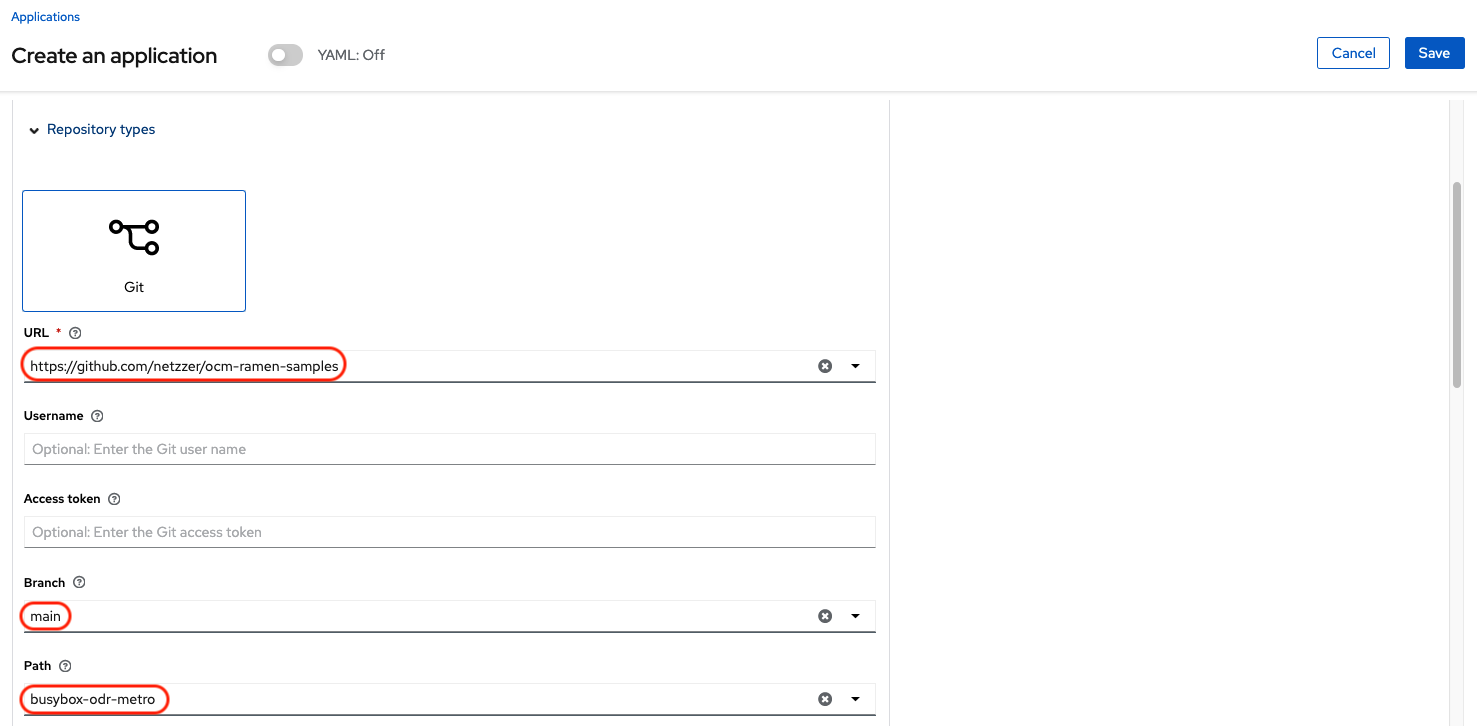
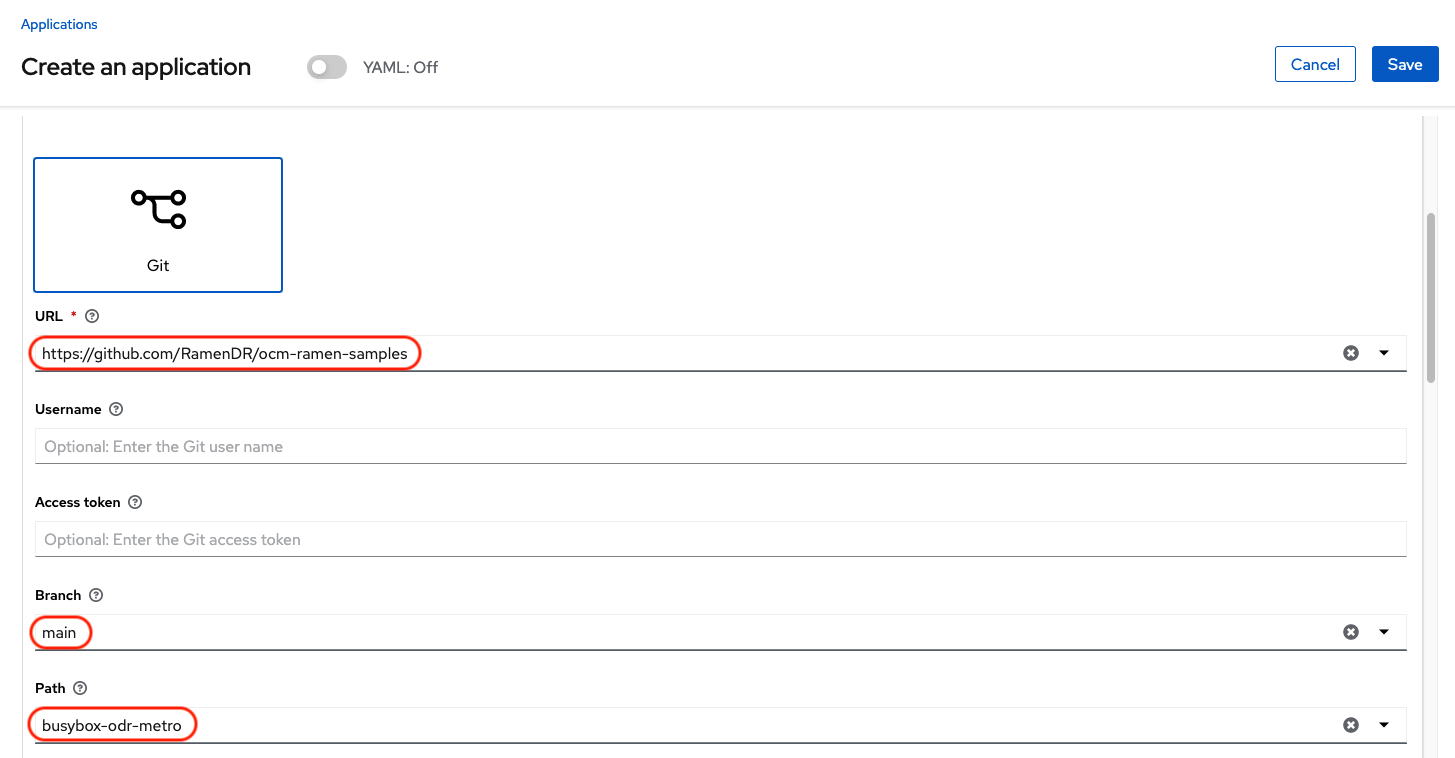
[CI] Publish Documentation for 3ba70a0201494a7e1a1d82daf5225d3933c6d2ed - 3ba70a0201494a7e1a1d82daf5225d3933c6d2ed 🚀

diff --git a/training/ocs4/odf4-metro-ramen.html b/training/ocs4/odf4-metro-ramen.html
@@ -213,8 +213,18 @@
 <li><a href="#_deleting_the_sample_application">12.5. Deleting the Sample Application</a></li>
 </ul>
 </li>
-<li><a href="#_application_failover_between_managed_clusters">13. Application Failover between managed clusters</a></li>
-<li><a href="#_application_failback_between_managed_clusters">14. Application Failback between managed clusters</a></li>
+<li><a href="#_application_failover_between_managed_clusters">13. Application Failover between managed clusters</a>
+<ul class="sectlevel2">
+<li><a href="#_create_networkfence_resource_and_enable_fencing">13.1. Create NetworkFence resource and Enable Fencing</a></li>
+<li><a href="#_modify_drplacementcontrol_to_failover">13.2. Modify DRPlacementControl to failover</a></li>
+</ul>
+</li>
+<li><a href="#_application_failback_between_managed_clusters">14. Application Failback between managed clusters</a>
+<ul class="sectlevel2">
+<li><a href="#_remove_networkfence_resource_and_disable_fencing">14.1. Remove NetworkFence resource and Disable Fencing</a></li>
+<li><a href="#_modify_drplacementcontrol_to_failback">14.2. Modify DRPlacementControl to failback</a></li>
+</ul>
+</li>
 </ul>
 </div>
 <div class="sect1">
@@ -623,31 +633,17 @@ The <strong>Hub cluster</strong> needs to verify access to the object buckets us
 <p>After all the <code>user-ca-bundle</code> <strong>ConfigMaps</strong> are created, the default <strong>Proxy</strong> <code>cluster</code> resource needs to be modified.</p>
 </div>
 <div class="paragraph">
-<p>Create a new YAML file <code>proxy-ca.yaml</code> and then <code>apply</code> this file to the default <strong>Proxy</strong> resource on the <strong>Primary managed cluster</strong>, <strong>Secondary managed cluster</strong>, <em>and</em> the <strong>Hub cluster</strong>.</p>
-</div>
-<div class="listingblock">
-<div class="content">
-<pre class="highlightjs highlight"><code class="language-yaml hljs" data-lang="yaml">apiVersion: config.openshift.io/v1
-kind: Proxy
-metadata:
-  name: cluster
-spec:
-  trustedCA:
-    name: user-ca-bundle</code></pre>
-</div>
-</div>
-<div class="paragraph">
-<p>Now modify the existing <strong>Proxy</strong> <code>cluster</code> resource:</p>
+<p>Patch the default <strong>Proxy</strong> resource on the <strong>Primary managed cluster</strong>, <strong>Secondary managed cluster</strong>, and the <strong>Hub cluster</strong>.</p>
 </div>
 <div class="listingblock execute">
 <div class="content">
-<pre class="highlightjs highlight"><code class="language-shell hljs" data-lang="shell">oc apply -f proxy-ca.yaml</code></pre>
+<pre class="highlightjs highlight"><code class="language-shell hljs" data-lang="shell">oc patch proxy cluster --type=merge  --patch='{"spec":{"trustedCA":{"name":"user-ca-bundle"}}}'</code></pre>
 </div>
 </div>
 <div class="listingblock">
 <div class="title">Example output.</div>
 <div class="content">
-<pre class="highlightjs highlight"><code class="language-shell hljs" data-lang="shell">proxy.config.openshift.io/cluster configured</code></pre>
+<pre class="highlightjs highlight"><code class="language-shell hljs" data-lang="shell">proxy.config.openshift.io/cluster patched</code></pre>
 </div>
 </div>
 </div>
@@ -960,10 +956,11 @@ spec:
   - name: &lt;cluster1&gt;
     region: &lt;string_value&gt;
     s3ProfileName: s3-primary
+    clusterFence: Unfenced
   - name: &lt;cluster2&gt;
     region: &lt;string_value&gt;
     s3ProfileName: s3-secondary
-  schedulingInterval: 5m</code></pre>
+    clusterFence: Unfenced</code></pre>
 </div>
 </div>
 <div class="paragraph">
@@ -1353,7 +1350,7 @@ This resource must be created in the <code>busybox-sample</code> namespace (or w
 <i class="fa icon-note" title="Note"></i>
 </td>
 <td class="content">
-<strong>Sample application repository</strong> <a href="https://github.com/netzzer/ocm-ramen-samples" class="bare">github.com/netzzer/ocm-ramen-samples</a>. Branch is <code>main</code> and path is <code>busybox-odr-metro</code>.
+<strong>Sample application repository</strong> <a href="https://github.com/RamenDR/ocm-ramen-samples" class="bare">github.com/RamenDR/ocm-ramen-samples</a>. Branch is <code>main</code> and path is <code>busybox-odr-metro</code>.
 </td>
 </tr>
 </table>
@@ -1505,6 +1502,178 @@ This process can be used to delete any application with a DRPlacementControl res
 <div class="paragraph">
 <p>This section will detail how to failover the <code>busybox</code> sample application. The failover method for <code>Regional Disaster Recovery</code> is application based. Each application that is to be protected in this manner must have a corresponding <strong>DRPlacementControl</strong> resource and a <strong>PlacementRule</strong> resource created in the application namespace as shown in the <a href="#_create_sample_application_for_dr_testing">Create Sample Application for DR testing</a> section.</p>
 </div>
+<div class="sect2">
+<h3 id="_create_networkfence_resource_and_enable_fencing"><a class="anchor" href="#_create_networkfence_resource_and_enable_fencing"></a>13.1. Create NetworkFence resource and Enable Fencing</h3>
+<div class="paragraph">
+<p>In order to failover the OpenShift cluster where the application is currently running all applications must be <code>fenced</code> from communicating with the external <strong>ODF</strong> storage. This is required to prevent simultaneous writes to the same persistent volume from both managed clusters.</p>
+</div>
+<div class="paragraph">
+<p>The user needs to specify the list of <code>CIDR blocks</code> or <code>IP addresses</code> on which network fencing operation will be performed. In our case, this will be the <code>EXTERNAL-IP</code> of every OpenShift node in the cluster that needs to be <code>fenced</code> from using the external <code>RHCS</code> cluster.</p>
+</div>
+<div class="paragraph">
+<p>Execute this command to get the IP addresses for the <strong>Primary managed cluster</strong>.</p>
+</div>
+<div class="listingblock execute">
+<div class="content">
+<pre class="highlightjs highlight"><code class="language-shell hljs" data-lang="shell">oc get nodes -o jsonpath='{range .items[*]}{.status.addresses[?(@.type=="ExternalIP")].address}{"\n"}{end}'</code></pre>
+</div>
+</div>
+<div class="listingblock">
+<div class="title">Example output.</div>
+<div class="content">
+<pre class="highlightjs highlight"><code class="language-shell hljs" data-lang="shell">10.70.56.118
+10.70.56.193
+10.70.56.154
+10.70.56.242
+10.70.56.136
+10.70.56.99</code></pre>
+</div>
+</div>
+<div class="admonitionblock caution">
+<table>
+<tr>
+<td class="icon">
+<i class="fa icon-caution" title="Caution"></i>
+</td>
+<td class="content">
+It is important to collect the current IP addresses of all OpenShift nodes <strong><em>before</em></strong> there is a site outage. Best practice would be to create the <strong>NetworkFence</strong> YAML file and have it available and up-to-date for a disaster recovery event.
+</td>
+</tr>
+</table>
+</div>
+<div class="paragraph">
+<p>The IP addresses for all nodes will be added to the <strong>NetworkFence</strong> example resource as shown below. Example is for six nodes but there could be more nodes in your cluster.</p>
+</div>
+<div class="listingblock">
+<div class="content">
+<pre class="highlightjs highlight"><code class="language-yaml hljs" data-lang="yaml">apiVersion: csiaddons.openshift.io/v1alpha1
+kind: NetworkFence
+metadata:
+  name: network-fence-&lt;cluster1&gt;
+spec:
+  driver: openshift-storage.rbd.csi.ceph.com
+  cidrs:
+    -  &lt;IP_Address1&gt;/32
+    -  &lt;IP_Address2&gt;/32
+    -  &lt;IP_Address3&gt;/32
+    -  &lt;IP_Address4&gt;/32
+    -  &lt;IP_Address5&gt;/32
+    -  &lt;IP_Address6&gt;/32
+    [...]
+  secret:
+    name: rook-csi-rbd-provisioner
+    namespace: openshift-storage
+  parameters:
+    clusterID: openshift-storage</code></pre>
+</div>
+</div>
+<div class="paragraph">
+<p>For the YAML file example above modify for your IP addresses and correct <code>&lt;cluster1&gt;</code> to be the cluster name found in <strong>ACM</strong> for the <strong>Primary managed cluster</strong>. Save to filename <code>network-fence-&lt;cluster1&gt;.yaml</code>.</p>
+</div>
+<div class="admonitionblock important">
+<table>
+<tr>
+<td class="icon">
+<i class="fa icon-important" title="Important"></i>
+</td>
+<td class="content">
+The <strong>NetworkFence</strong> must be created from the opposite managed cluster from where the application is currently running prior to <code>failover</code>. In this case, that is the <strong>Secondary managed cluster</strong>.
+</td>
+</tr>
+</table>
+</div>
+<div class="admonitionblock caution">
+<table>
+<tr>
+<td class="icon">
+<i class="fa icon-caution" title="Caution"></i>
+</td>
+<td class="content">
+Once the <strong>NetworkFence</strong> is created, <strong><em>ALL</em></strong> communication from applications to the <strong>ODF</strong> storage will fail and some <strong>Pods</strong> will be in an unhealthy state (e.g. ContainerCreateError, CrashBackOff) on the cluster that is now <code>fenced</code>.
+</td>
+</tr>
+</table>
+</div>
+<div class="listingblock execute">
+<div class="content">
+<pre class="highlightjs highlight"><code class="language-shell hljs" data-lang="shell">oc create -f network-fence-&lt;cluster1&gt;.yaml</code></pre>
+</div>
+</div>
+<div class="listingblock">
+<div class="title">Example output.</div>
+<div class="content">
+<pre class="highlightjs highlight"><code class="language-shell hljs" data-lang="shell">networkfences.csiaddons.openshift.io/network-fence-ocp4perf1 created</code></pre>
+</div>
+</div>
+<div class="paragraph">
+<p>In the same cluster as where the <strong>NetworkFence</strong> was created, verify that the status is <code>Succeeded</code>. Modify <code>&lt;cluster1&gt;</code> to be correct.</p>
+</div>
+<div class="listingblock execute">
+<div class="content">
+<pre class="highlightjs highlight"><code class="language-shell hljs" data-lang="shell">export NETWORKFENCE=network-fence-&lt;cluster1&gt;
+oc get networkfences.csiaddons.openshift.io/$NETWORKFENCE -n openshift-dr-system -o jsonpath='{.status.result}{"\n"}'</code></pre>
+</div>
+</div>
+<div class="listingblock">
+<div class="title">Example output.</div>
+<div class="content">
+<pre class="highlightjs highlight"><code class="language-shell hljs" data-lang="shell">Succeeded</code></pre>
+</div>
+</div>
+<div class="paragraph">
+<p>In order for the <strong>NetworkFence</strong> status of <code>Fenced</code> to be known to the <code>ODR HUB operator</code>, the <strong>DRPolicy</strong> must be modified for the <code>fenced</code> cluster. Edit the <strong>DRPolicy</strong> on the <strong>Hub cluster</strong> and change <code>&lt;cluster1&gt;</code> (example ocp4perf1) from <code>Unfenced</code> to <code>ManuallyFenced</code>.</p>
+</div>
+<div class="listingblock execute">
+<div class="content">
+<pre class="highlightjs highlight"><code class="language-shell hljs" data-lang="shell">oc edit drpolicy odr-policy</code></pre>
+</div>
+</div>
+<div class="listingblock">
+<div class="title">Example output.</div>
+<div class="content">
+<pre class="highlightjs highlight"><code class="language-shell hljs" data-lang="shell">[...]
+spec:
+  drClusterSet:
+  - clusterFence: ManuallyFenced  ## &lt;-- Modify from Unfenced to ManuallyFenced
+    name: ocp4perf1
+    region: metro
+    s3ProfileName: s3-primary
+  - clusterFence: Unfenced
+    name: ocp4perf2
+    region: metro
+    s3ProfileName: s3-secondary
+[...]</code></pre>
+</div>
+</div>
+<div class="listingblock">
+<div class="title">Example output.</div>
+<div class="content">
+<pre class="highlightjs highlight"><code class="language-shell hljs" data-lang="shell">drpolicies.ramendr.openshift.io/odr-policy configured</code></pre>
+</div>
+</div>
+<div class="paragraph">
+<p>Now validate the <strong>DRPolicy</strong> status in the <strong>Hub cluster</strong> has changed to <code>Fenced</code> for the <strong>Primary managed cluster</strong>.</p>
+</div>
+<div class="listingblock execute">
+<div class="content">
+<pre class="highlightjs highlight"><code class="language-shell hljs" data-lang="shell">oc get drpolicies.ramendr.openshift.io odr-policy -o yaml | grep -A 6 drClusters</code></pre>
+</div>
+</div>
+<div class="listingblock">
+<div class="title">Example output.</div>
+<div class="content">
+<pre class="highlightjs highlight"><code class="language-shell hljs" data-lang="shell">  drClusters:
+    ocp4perf1:
+      status: Fenced
+      string: ocp4perf1
+    ocp4perf2:
+      status: Unfenced
+      string: ocp4perf2</code></pre>
+</div>
+</div>
+</div>
+<div class="sect2">
+<h3 id="_modify_drplacementcontrol_to_failover"><a class="anchor" href="#_modify_drplacementcontrol_to_failover"></a>13.2. Modify DRPlacementControl to failover</h3>
 <div class="paragraph">
 <p>To failover requires modifying the <strong>DRPlacementControl</strong> YAML view. On the <strong>Hub cluster</strong> navigate to <code>Installed Operators</code> and then to <code>Openshift DR Hub Operator</code>. Select <strong>DRPlacementControl</strong> as show below.</p>
 </div>
@@ -1560,12 +1729,124 @@ persistentvolumeclaim/busybox-pvc   Bound    pvc-79f2a74d-6e2c-48fb-9ed9-666b74c
 </div>
 </div>
 </div>
+</div>
 <div class="sect1">
 <h2 id="_application_failback_between_managed_clusters"><a class="anchor" href="#_application_failback_between_managed_clusters"></a>14. Application Failback between managed clusters</h2>
 <div class="sectionbody">
 <div class="paragraph">
-<p>A failback operation is very similar to failover. The failback is application based and uses the <strong>DRPlacementControl</strong> to trigger the failback. The main difference for failback is that a <code>resync</code> is issued to make sure any new application data saved on the <strong>Secondary managed cluster</strong> is immediately, not waiting for the mirroring schedule interval, replicated to the <strong>Primary managed cluster</strong>.</p>
+<p>A failback operation is very similar to failover. The failback is application based and uses the <strong>DRPlacementControl</strong> to trigger the failback. The main difference for failback is that the application is scaled down on the <code>failoverCluster</code> and therefore creating a <strong>NetworkFence</strong> is not required.</p>
 </div>
+<div class="sect2">
+<h3 id="_remove_networkfence_resource_and_disable_fencing"><a class="anchor" href="#_remove_networkfence_resource_and_disable_fencing"></a>14.1. Remove NetworkFence resource and Disable Fencing</h3>
+<div class="paragraph">
+<p>Before a failback or relocate action can be successful the <strong>NetworkFence</strong> for the <strong>Primary managed cluster</strong> must be deleted. Execute this command in the <strong>Secondary managed cluster</strong> and modify <code>&lt;cluster1&gt;</code> to be correct for the <strong>NetworkFence</strong> YAML filename created in the prior section.</p>
+</div>
+<div class="listingblock execute">
+<div class="content">
+<pre class="highlightjs highlight"><code class="language-shell hljs" data-lang="shell">oc delete -f network-fence-&lt;cluster1&gt;.yaml</code></pre>
+</div>
+</div>
+<div class="listingblock">
+<div class="title">Example output.</div>
+<div class="content">
+<pre class="highlightjs highlight"><code class="language-shell hljs" data-lang="shell">networkfences.csiaddons.openshift.io/network-fence-ocp4perf1 deleted</code></pre>
+</div>
+</div>
+<div class="paragraph">
+<p>In order for the <strong>NetworkFence</strong> status of <code>Unfenced</code> to be known to the <code>ODR HUB operator</code>, the <strong>DRPolicy</strong> must be modified for the newly <code>Unfenced</code> cluster. Edit the <strong>DRPolicy</strong> on the <strong>Hub cluster</strong> and change <code>&lt;cluster1&gt;</code> (example ocp4perf1) from <code>Manuallyfenced</code> to <code>Unfenced</code>.</p>
+</div>
+<div class="listingblock execute">
+<div class="content">
+<pre class="highlightjs highlight"><code class="language-shell hljs" data-lang="shell">oc edit drpolicy odr-policy</code></pre>
+</div>
+</div>
+<div class="listingblock">
+<div class="title">Example output.</div>
+<div class="content">
+<pre class="highlightjs highlight"><code class="language-shell hljs" data-lang="shell">[...]
+spec:
+  drClusterSet:
+  - clusterFence: Unfenced  ## &lt;-- Modify from ManuallyFenced to Unfenced
+    name: ocp4perf1
+    region: metro
+    s3ProfileName: s3-primary
+  - clusterFence: Unfenced
+    name: ocp4perf2
+    region: metro
+    s3ProfileName: s3-secondary
+[...]</code></pre>
+</div>
+</div>
+<div class="listingblock">
+<div class="title">Example output.</div>
+<div class="content">
+<pre class="highlightjs highlight"><code class="language-shell hljs" data-lang="shell">drpolicies.ramendr.openshift.io/odr-policy configured</code></pre>
+</div>
+</div>
+<div class="paragraph">
+<p>Now validate the <strong>DRPolicy</strong> status in the <strong>Hub cluster</strong> has changed to <code>Unfenced</code> for the <strong>Primary managed cluster</strong>.</p>
+</div>
+<div class="listingblock execute">
+<div class="content">
+<pre class="highlightjs highlight"><code class="language-shell hljs" data-lang="shell">oc get drpolicies.ramendr.openshift.io odr-policy -o yaml | grep -A 6 drClusters</code></pre>
+</div>
+</div>
+<div class="listingblock">
+<div class="title">Example output.</div>
+<div class="content">
+<pre class="highlightjs highlight"><code class="language-shell hljs" data-lang="shell">  drClusters:
+    ocp4perf1:
+      status: Unfenced
+      string: ocp4perf1
+    ocp4perf2:
+      status: Unfenced
+      string: ocp4perf2</code></pre>
+</div>
+</div>
+<div class="paragraph">
+<p>The last step is required because some application <strong>Pods</strong> on the prior <code>fenced</code> cluster, in this case the <strong>Primary managed cluster</strong>, are in an unhealthy state (e.g. ContainerCreateError, CrashBackOff). This can be most easily fixed by <strong>rebooting all OpenShift nodes</strong> in the cluster one at a time.</p>
+</div>
+<div class="paragraph">
+<p>After all OpenShift nodes are reboot and again in a <code>Ready</code> status, verify all <strong>Pods</strong> are in a healthy state by running this command on the <strong>Primary managed cluster</strong>. The output for this query should be zero <strong>Pods</strong>.</p>
+</div>
+<div class="admonitionblock note">
+<table>
+<tr>
+<td class="icon">
+<i class="fa icon-note" title="Note"></i>
+</td>
+<td class="content">
+The <strong>OpenShift Web Console</strong> dashboards and <strong>Overview</strong> can also be used to assess the health of applications and the external storage. The detailed <strong>ODF</strong> dashboard is found by navigating to <code>Storage</code> &#8594; <code>Data Foundation</code>.
+</td>
+</tr>
+</table>
+</div>
+<div class="listingblock execute">
+<div class="content">
+<pre class="highlightjs highlight"><code class="language-shell hljs" data-lang="shell">oc get pods -A | egrep -v 'Running|Completed'</code></pre>
+</div>
+</div>
+<div class="listingblock">
+<div class="title">Example output.</div>
+<div class="content">
+<pre class="highlightjs highlight"><code class="language-shell hljs" data-lang="shell">NAMESPACE                                          NAME                                                              READY   STATUS      RESTARTS       AGE</code></pre>
+</div>
+</div>
+<div class="admonitionblock important">
+<table>
+<tr>
+<td class="icon">
+<i class="fa icon-important" title="Important"></i>
+</td>
+<td class="content">
+If there are <strong>Pods</strong> still in an unhealthy status because of severed storage communication, troubleshoot and resolve before continuing. Because the storage cluster is external to OpenShift, it also has to be properly recovered after a site outage for OpenShift applications to be healthy.
+</td>
+</tr>
+</table>
+</div>
+</div>
+<div class="sect2">
+<h3 id="_modify_drplacementcontrol_to_failback"><a class="anchor" href="#_modify_drplacementcontrol_to_failback"></a>14.2. Modify DRPlacementControl to failback</h3>
 <div class="paragraph">
 <p>To failback requires modifying the <strong>DRPlacementControl</strong> YAML view. On the <strong>Hub cluster</strong> navigate to <code>Installed Operators</code> and then to <code>Openshift DR Hub Operator</code>. Select <strong>DRPlacementControl</strong> as show below.</p>
 </div>
@@ -1617,6 +1898,7 @@ persistentvolumeclaim/busybox-pvc   Bound    pvc-79f2a74d-6e2c-48fb-9ed9-666b74c
 <div class="title">Example output.</div>
 <div class="content">
 <pre class="highlightjs highlight"><code class="language-shell hljs" data-lang="shell">No resources found in busybox-sample namespace.</code></pre>
+</div>
 </div>
 </div>
 </div>
